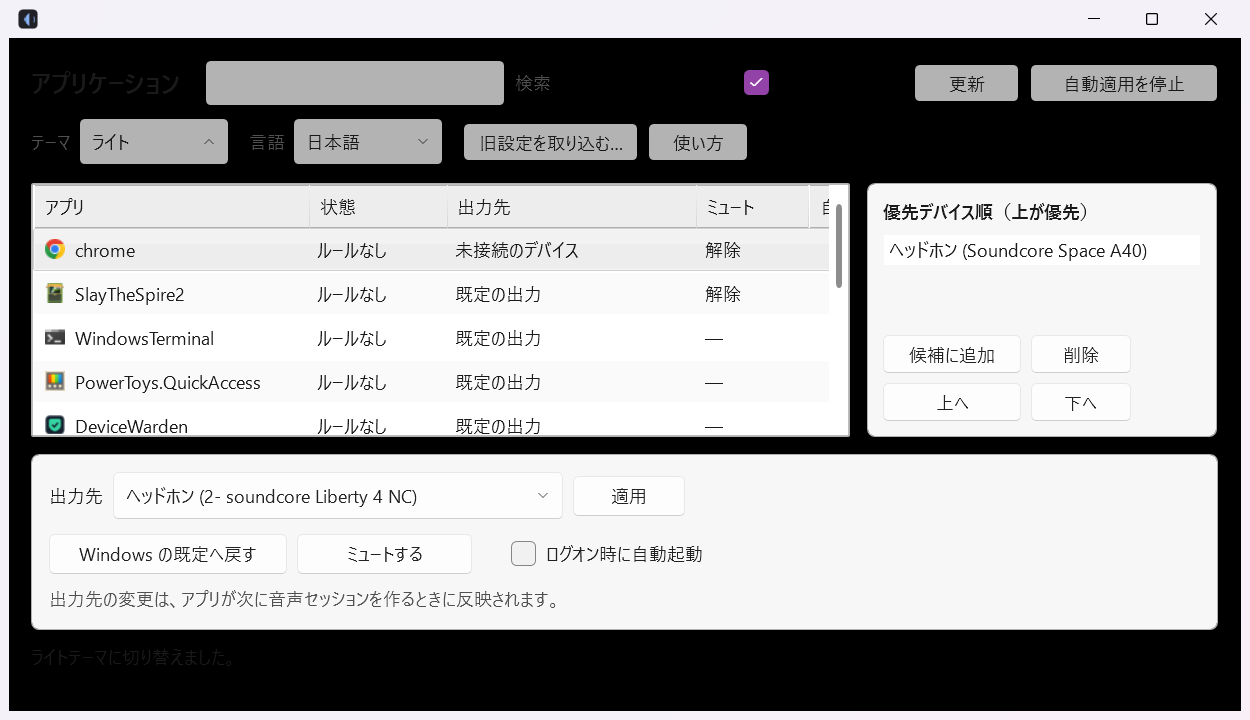
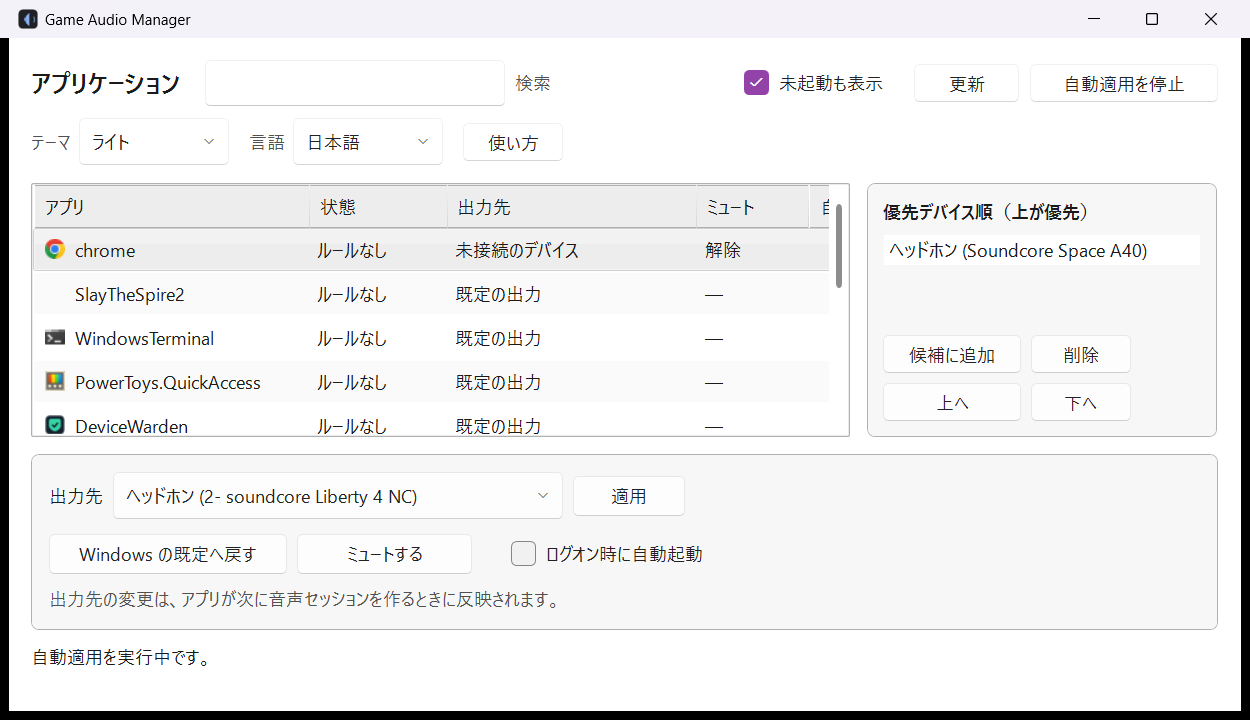
feat: remove the legacy settings import button from the UI (#56)

diff --git a/src/GameAudioManager.App/MainWindow.xaml b/src/GameAudioManager.App/MainWindow.xaml
@@ -79,10 +79,7 @@
                            Text="{Binding [Language], Source={x:Static app:Localization.Instance}}" />
                 <ComboBox x:Name="LanguageCombo" Width="120" MinHeight="32"
                           SelectionChanged="OnLanguageChanged" />
-                <ui:Button Margin="16,0,0,0" Height="30" MinWidth="140"
-                           Content="{Binding [ImportLegacy], Source={x:Static app:Localization.Instance}}"
-                           Click="OnImportLegacy" />
-                <ui:Button Margin="8,0,0,0" Height="30" MinWidth="80"
+                <ui:Button Margin="16,0,0,0" Height="30" MinWidth="80"
                            Content="{Binding [Help], Source={x:Static app:Localization.Instance}}"
                            Click="OnOpenHelp" />
             </WrapPanel>

diff --git a/src/GameAudioManager.App/MainViewModel.cs b/src/GameAudioManager.App/MainViewModel.cs
@@ -227,61 +227,6 @@ public sealed class MainViewModel : INotifyPropertyChanged, IDisposable
         });
     }
 
-    /// <summary>
-    /// Imports rules from the legacy PowerShell <c>games.json</c>.
-    /// </summary>
-    /// <remarks>
-    /// Device names are resolved to device ids where the device is present; names that
-    /// cannot be resolved are kept verbatim so a rule for an unplugged headset survives
-    /// the migration. Existing rules for the same process are merged, not duplicated.
-    /// </remarks>
-    public async Task<(int Added, int Merged, IReadOnlyList<string> Unresolved)> ImportLegacyAsync(
-        string gamesJsonPath,
-        string? settingsJsonPath = null)
-    {
-        // Preserve the existing settings first: an import must never be able to lose them.
-        var backupPath = _store.Backup();
-
-        var result = await Task.Run(() => LegacyImporter.Import(gamesJsonPath, settingsJsonPath, _devices))
-            .ConfigureAwait(true);
-
-        var added = 0;
-        var merged = 0;
-        foreach (var incoming in result.Settings.Rules)
-        {
-            var existing = FindRule(incoming.ProcessName);
-            if (existing is null)
-            {
-                Settings.Rules.Add(incoming);
-                added++;
-                continue;
-            }
-
-            foreach (var deviceId in incoming.OutputDeviceIds)
-            {
-                var updated = DevicePriority.Add(existing.OutputDeviceIds, deviceId);
-                existing.OutputDeviceIds.Clear();
-                existing.OutputDeviceIds.AddRange(updated);
-            }
-
-            merged++;
-        }
-
-        Settings.WatchIntervalSeconds = Math.Clamp(result.Settings.WatchIntervalSeconds, 1, 3600);
-        SaveSettings();
-        _watcher.UpdateSettings(Settings);
-        _watcher.TriggerNow();
-        RefreshFromWatcher();
-
-        StatusMessage = Localization.Instance.Format("StatusImportResult", added, merged) +
-            (backupPath is null ? string.Empty : Localization.Instance.Format("StatusImportBackup", System.IO.Path.GetFileName(backupPath))) +
-            (result.UnresolvedDevices.Count > 0
-                ? Localization.Instance.Format("StatusImportUnresolved", result.UnresolvedDevices.Count)
-                : string.Empty);
-
-        return (added, merged, result.UnresolvedDevices);
-    }
-
     public string SelectedAppSummary => _selectedApp is null
         ? string.Empty
         : $"{_selectedApp.DisplayName}: {_selectedApp.StateText} / ミュート {_selectedApp.MuteText}";

diff --git a/src/GameAudioManager.App/Localization.cs b/src/GameAudioManager.App/Localization.cs
@@ -41,7 +41,6 @@ public sealed class Localization : INotifyPropertyChanged
             ["ThemeLight"] = ("ライト", "Light"),
             ["ThemeDark"] = ("ダーク", "Dark"),
             ["Language"] = ("言語", "Language"),
-            ["ImportLegacy"] = ("旧設定を取り込む…", "Import old settings…"),
 
             // list columns
             ["ColumnApp"] = ("アプリ", "Application"),
@@ -111,21 +110,6 @@ public sealed class Localization : INotifyPropertyChanged
             ["StatusAutoApplyOn"] = ("{0}: 自動適用を有効にしました。", "{0}: auto-apply enabled."),
             ["StatusAutoApplyOff"] = ("{0}: 自動適用を無効にしました。", "{0}: auto-apply disabled."),
             ["StatusApplied"] = ("{0} → {1}。{2}", "{0} → {1}. {2}"),
-            ["StatusImportResult"] = (
-                "旧設定を取り込みました: 追加 {0} 件 / 統合 {1} 件",
-                "Imported old settings: {0} added, {1} merged"),
-            ["StatusImportBackup"] = (
-                "（既存設定を {0} に退避）",
-                " (previous settings saved as {0})"),
-            ["StatusImportUnresolved"] = (
-                "（デバイス未接続のため名前のまま保持: {0} 件）",
-                " ({0} device(s) kept by name because they are not connected)"),
-
-            // dialogs
-            ["ImportDialogTitle"] = ("旧バージョンの games.json を選択", "Select the previous games.json"),
-            ["ImportDialogFilter"] = ("games.json|games.json|JSON|*.json|すべてのファイル|*.*", "games.json|games.json|JSON|*.json|All files|*.*"),
-            ["ImportResultTitle"] = ("旧設定の取り込み", "Import result"),
-            ["ImportResultBody"] = ("追加: {0} 件\n統合: {1} 件\n未接続で名前のまま保持: {2} 件", "Added: {0}\nMerged: {1}\nKept by name (not connected): {2}"),
 
             // help window
             ["Help"] = ("使い方", "How to use"),

diff --git a/src/GameAudioManager.App/MainWindow.xaml.cs b/src/GameAudioManager.App/MainWindow.xaml.cs
@@ -240,30 +240,6 @@ public partial class MainWindow : Window
 
     private void OnMovePriorityDown(object sender, RoutedEventArgs e) =>
         _viewModel.MovePriorityDeviceAt(PriorityList.SelectedIndex, 1);
-
-    private async void OnImportLegacy(object sender, RoutedEventArgs e)
-    {
-        var loc = Localization.Instance;
-        var dialog = new Microsoft.Win32.OpenFileDialog
-        {
-            Title = loc["ImportDialogTitle"],
-            Filter = loc["ImportDialogFilter"],
-            CheckFileExists = true,
-        };
-
-        if (dialog.ShowDialog(this) != true)
-        {
-            return;
-        }
-
-        var result = await _viewModel.ImportLegacyAsync(dialog.FileName);
-        System.Windows.MessageBox.Show(
-            this,
-            loc.Format("ImportResultBody", result.Added, result.Merged, result.Unresolved.Count),
-            loc["ImportResultTitle"],
-            System.Windows.MessageBoxButton.OK,
-            System.Windows.MessageBoxImage.Information);
-    }
 }
 
 

diff --git a/README.md b/README.md
@@ -49,7 +49,6 @@ Windows 上でアプリ・ゲームごとの音声出力先とミュートを切
 | テーマ | システム / ライト / ダークを切り替えます。設定は次回起動時にも保持されます |
 | 言語 | 日本語 / English を切り替えます（既定は OS の UI 言語） |
 | 使い方 | アプリ内の操作ガイドを開きます（`F1` でも開けます） |
-| 旧設定を取り込む… | 旧 PowerShell 版の `games.json` を取り込みます（下記「移行」参照） |
 
 ### キーボードショートカット
 
@@ -155,9 +154,8 @@ dotnet test tests/GameAudioManager.Core.Tests/GameAudioManager.Core.Tests.csproj
 
 2. **デスクトップアプリ版を起動**し、一覧から対象アプリを選び直します。
 
-   旧設定を取り込む場合は、画面上部の「旧設定を取り込む…」で旧 `config/games.json` を選びます。
-   デバイス名は接続中のデバイスの ID に解決され、未接続のデバイスは名前のまま保持されます。
-   同じアプリのルールは統合され、重複しません。
+   旧版の設定は自動では引き継ぎません。**画面から選び直してください**（数件なら数クリックで済みます）。
+   旧 `games.json` の内容は下記「設定の対応」を参照してください。
 
    - 出力先: ドロップダウンから選んで「適用」
    - 優先順位: 右側の「優先デバイス順」で候補を追加・並べ替え
@@ -177,8 +175,8 @@ dotnet test tests/GameAudioManager.Core.Tests/GameAudioManager.Core.Tests.csproj
 | — | `rules[].autoApply`（新規） |
 
 デバイス名は変更・重複しうるため、新版は ID で保存します。
-旧設定の `LegacyImporter` による自動取り込みは Core に実装済みですが、UI からは未提供です
-（現状は画面から選び直すのが確実です）。
+そのため旧設定のデバイス名をそのまま持ち込むと誤ったデバイスに割り当たる可能性があり、
+**画面から選び直す方式**にしています（取り込み機能は提供していません）。
 
 ---
 
@@ -503,6 +501,7 @@ docs/                           補足ドキュメント
 音声出力の制御には NirSoft の SoundVolumeCommandLine を利用しています。
 `vendor/svcl/` にある `svcl.exe`、`svcl.chm`、`readme.txt` は同ツールの未改変の 64-bit 配布物であり、
 MIT License の対象外です。配布条件と著作権表記は [Third-party notices](THIRD_PARTY_NOTICES.md) を参照してください。
+
 
 
 
